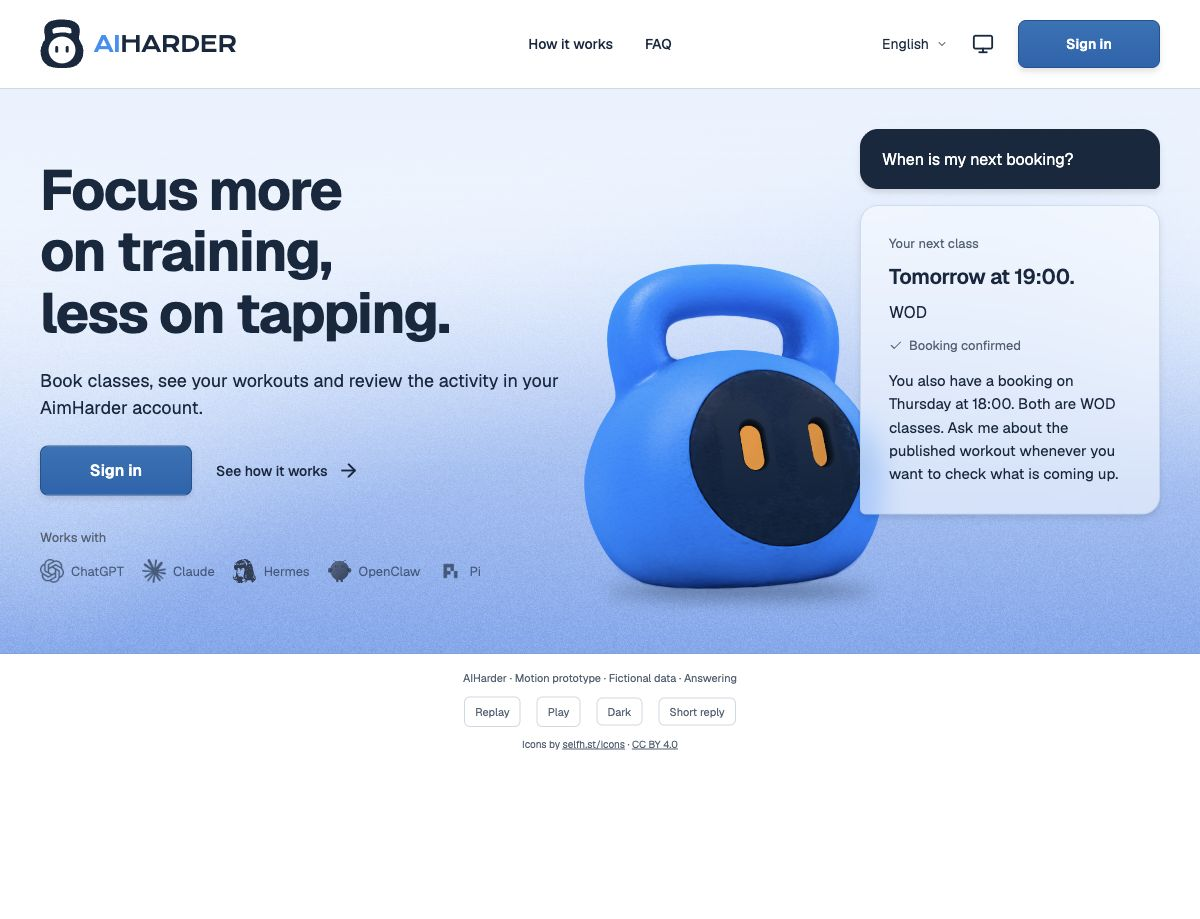
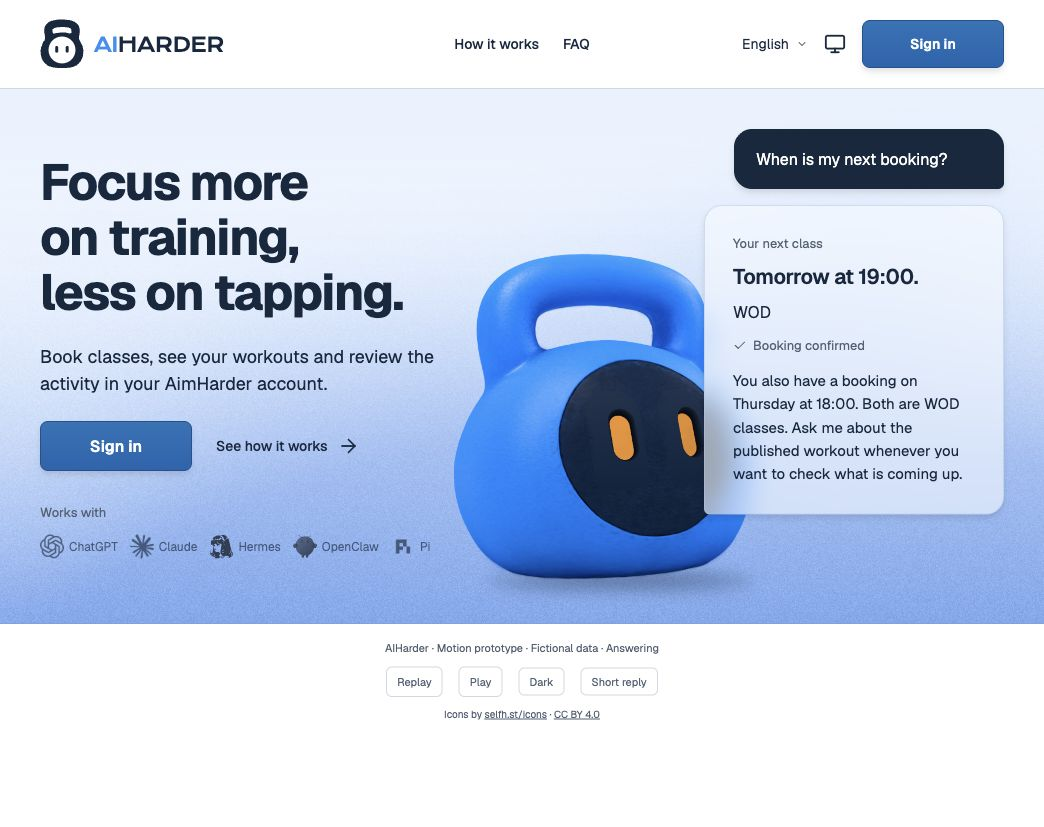
design: compact desktop hero scene and raise kettle with ground

diff --git a/design/home-study/hero-motion-prototype.html b/design/home-study/hero-motion-prototype.html
@@ -2,8 +2,8 @@
 <!-- Throwaway #95 motion prototype: one owner-directed hero, no live chat or account access. -->
 <html lang="en"><head><meta charset="utf-8"><meta name="viewport" content="width=device-width,initial-scale=1"><title>AIHarder — Kettle motion prototype</title><script>const p=new URLSearchParams(location.search);document.documentElement.dataset.theme=p.get('theme')==='dark'?'dark':'light';document.documentElement.dataset.state=['waiting','question','thinking','answer'].includes(p.get('state'))?p.get('state'):'answer';</script><style>
 @font-face{font-family:Geist;src:url('./assets/fonts/Geist.ttf');font-weight:100 900;font-display:swap}@font-face{font-family:Krona;src:url('./assets/fonts/KronaOne-Regular.ttf');font-weight:400;font-display:swap}
-:root{--bg:#fff;--surface:#f4f7fa;--ink:#14283f;--muted:#516174;--line:#cfd8e3;--bubble:#14283f;--blue:#2490f4;--cta:#1765b0;--cta-top:#2174b9;--on-cta:#fff;--edge:#12528f;--reply:#f8fbff99;--bubble-edge:#a9c3e480;--ground:#14283f4d;--contact:#14283f59;color-scheme:light}:root[data-theme=dark]{--bg:#0d1521;--surface:#142033;--ink:#edf3fa;--muted:#abbacd;--line:#34465e;--bubble:#14283f;--cta:#2490f4;--cta-top:#47a3f6;--on-cta:#0d1521;--edge:#61a9eb;--reply:#142b4599;--bubble-edge:#48688b80;--ground:#000000a6;--contact:#000000b3;color-scheme:dark}*{box-sizing:border-box}body{margin:0;background:var(--bg);color:var(--ink);font:16px/1.5 Geist,Arial,sans-serif}a{color:inherit;text-decoration:none}h1,p{margin:0}.container{width:calc(100% - 80px);max-width:1200px;margin:auto}.icon{width:22px;height:22px;display:inline-block;flex:none;background:currentColor;mask:var(--icon) center/contain no-repeat}.site-header{border-bottom:1px solid var(--line)}.header-inner{min-height:88px;display:grid;grid-template-columns:1fr 1fr 1fr;align-items:center}.brand{display:flex;gap:10px;align-items:center;font:400 21.875px/1 Krona,sans-serif;letter-spacing:-.546875px;white-space:nowrap}.brand img{width:43.75px;height:50px;object-fit:contain}.brand b{color:var(--blue);font-weight:400}.nav{display:flex;align-items:center;justify-content:center;gap:32px;font-size:14px;font-weight:500}.utilities{display:flex;align-items:center;justify-content:flex-end;gap:24px;font-size:14px}.language{display:flex;gap:7px;align-items:center}.language .icon{width:12px;height:12px}.primary{display:inline-flex;align-items:center;justify-content:center;min-height:48px;padding:12px 28px;border-radius:8px;border:1px solid var(--edge);font-weight:600;background:linear-gradient(var(--cta-top),var(--cta));color:var(--on-cta);box-shadow:rgba(0,0,0,0.1) 0px 4px 6px 0px}.header-signin{min-width:142px}.hero{padding:32px 0;display:grid;grid-template-columns:532px minmax(0,1fr);gap:72px;align-items:center}.pitch{display:flex;flex-direction:column;gap:24px;position:relative;z-index:2}h1{font-size:56px;line-height:1.1;letter-spacing:-1.5px;font-weight:700}.intro{font-size:18px;line-height:1.5;color:var(--muted);max-width:532px}.actions{display:flex;gap:24px;align-items:center}.actions .primary{min-width:152px}.text-link{display:inline-flex;align-items:center;gap:10px;font-size:14px;font-weight:500}.works{padding-top:8px}.works-label{font-size:13px;color:var(--muted);margin-bottom:12px}.apps{display:flex;gap:18px;align-items:center;opacity:.65}.app{display:flex;align-items:center;gap:7px;font-size:13px;white-space:nowrap}.app img{width:24px;height:24px;object-fit:contain}.scene{position:relative;height:500px;min-width:0}.kettle{position:absolute;left:-80px;top:96px;width:360px;height:390px;z-index:1;overflow:hidden}.kettle img{position:absolute;width:493.14px;height:493.14px;max-width:none;left:-77.06px;top:-65.5px}.ground{position:absolute;left:-48px;top:476px;width:300px;height:20px;border-radius:50%;background:var(--ground);filter:blur(8px);z-index:0;transform-origin:center}.ground::after{content:"";position:absolute;left:38px;top:5px;width:224px;height:7px;border-radius:50%;background:var(--contact);filter:blur(2px)}.bubble{position:absolute;font-size:16px;line-height:1.5;z-index:3;box-shadow:rgba(0,0,0,0.1) 0px 4px 6px 0px}.question{right:0;top:8px;width:300px;background:var(--bubble);color:#fff;border-radius:18px 18px 6px 18px;padding:18px 22px}.answer{right:0;top:var(--reply-top,84px);width:344px;background:var(--reply);backdrop-filter:blur(12px);-webkit-backdrop-filter:blur(12px);border:1px solid var(--bubble-edge);border-radius:18px 18px 18px 6px;padding:28px}.answer .eyebrow{font-size:13px;color:var(--muted);margin-bottom:10px}.answer strong{display:block;font-size:21px;line-height:1.25;font-weight:600;letter-spacing:-.35px}.answer .class-name{margin-top:10px;font-size:16px}.answer .confirmed{display:flex;gap:6px;align-items:center;color:var(--muted);font-size:13px;margin-top:12px}.answer .confirmed .icon{width:14px;height:14px}.thinking{right:0;top:var(--reply-top,84px);width:90px;height:60px;border:1px solid var(--bubble-edge);border-radius:16px;background:var(--reply);backdrop-filter:blur(12px);-webkit-backdrop-filter:blur(12px);align-items:center;justify-content:center;gap:7px;display:none}.thinking span{display:block;width:7px;height:7px;background:var(--muted);border-radius:50%}.thinking span:nth-child(2){opacity:.7}.thinking span:nth-child(3){opacity:.4}[data-state=waiting] .question,[data-state=waiting] .answer,[data-state=question] .answer,[data-state=thinking] .answer{display:none}[data-state=thinking] .thinking{display:flex}.sr-only{position:absolute;width:1px;height:1px;overflow:hidden;clip-path:inset(50%)}.review-note{font-size:11px;color:var(--muted);padding:16px;text-align:center;border-top:1px solid var(--line)}
-@media(max-width:1320px){.kettle{left:-60px;top:126px;width:300px;height:344px}.kettle img{width:435.13px;height:435.13px;left:-68px;top:-57.79px}.answer{width:300px}.ground{left:-36px;top:460px;width:266px}.ground::after{left:34px;width:198px}}
+:root{--bg:#fff;--surface:#f4f7fa;--ink:#14283f;--muted:#516174;--line:#cfd8e3;--bubble:#14283f;--blue:#2490f4;--cta:#1765b0;--cta-top:#2174b9;--on-cta:#fff;--edge:#12528f;--reply:#f8fbff99;--bubble-edge:#a9c3e480;--ground:#14283f4d;--contact:#14283f59;color-scheme:light}:root[data-theme=dark]{--bg:#0d1521;--surface:#142033;--ink:#edf3fa;--muted:#abbacd;--line:#34465e;--bubble:#14283f;--cta:#2490f4;--cta-top:#47a3f6;--on-cta:#0d1521;--edge:#61a9eb;--reply:#142b4599;--bubble-edge:#48688b80;--ground:#000000a6;--contact:#000000b3;color-scheme:dark}*{box-sizing:border-box}body{margin:0;background:var(--bg);color:var(--ink);font:16px/1.5 Geist,Arial,sans-serif}a{color:inherit;text-decoration:none}h1,p{margin:0}.container{width:calc(100% - 80px);max-width:1200px;margin:auto}.icon{width:22px;height:22px;display:inline-block;flex:none;background:currentColor;mask:var(--icon) center/contain no-repeat}.site-header{border-bottom:1px solid var(--line)}.header-inner{min-height:88px;display:grid;grid-template-columns:1fr 1fr 1fr;align-items:center}.brand{display:flex;gap:10px;align-items:center;font:400 21.875px/1 Krona,sans-serif;letter-spacing:-.546875px;white-space:nowrap}.brand img{width:43.75px;height:50px;object-fit:contain}.brand b{color:var(--blue);font-weight:400}.nav{display:flex;align-items:center;justify-content:center;gap:32px;font-size:14px;font-weight:500}.utilities{display:flex;align-items:center;justify-content:flex-end;gap:24px;font-size:14px}.language{display:flex;gap:7px;align-items:center}.language .icon{width:12px;height:12px}.primary{display:inline-flex;align-items:center;justify-content:center;min-height:48px;padding:12px 28px;border-radius:8px;border:1px solid var(--edge);font-weight:600;background:linear-gradient(var(--cta-top),var(--cta));color:var(--on-cta);box-shadow:rgba(0,0,0,0.1) 0px 4px 6px 0px}.header-signin{min-width:142px}.hero{padding:32px 0;display:grid;grid-template-columns:532px minmax(0,1fr);gap:72px;align-items:center}.pitch{display:flex;flex-direction:column;gap:24px;position:relative;z-index:2}h1{font-size:56px;line-height:1.1;letter-spacing:-1.5px;font-weight:700}.intro{font-size:18px;line-height:1.5;color:var(--muted);max-width:532px}.actions{display:flex;gap:24px;align-items:center}.actions .primary{min-width:152px}.text-link{display:inline-flex;align-items:center;gap:10px;font-size:14px;font-weight:500}.works{padding-top:8px}.works-label{font-size:13px;color:var(--muted);margin-bottom:12px}.apps{display:flex;gap:18px;align-items:center;opacity:.65}.app{display:flex;align-items:center;gap:7px;font-size:13px;white-space:nowrap}.app img{width:24px;height:24px;object-fit:contain}.scene{position:relative;height:470px;min-width:0}.kettle{position:absolute;left:-80px;top:86px;width:360px;height:390px;z-index:1;overflow:hidden}.kettle img{position:absolute;width:493.14px;height:493.14px;max-width:none;left:-77.06px;top:-65.5px}.ground{position:absolute;left:-48px;top:466px;width:300px;height:20px;border-radius:50%;background:var(--ground);filter:blur(8px);z-index:0;transform-origin:center}.ground::after{content:"";position:absolute;left:38px;top:5px;width:224px;height:7px;border-radius:50%;background:var(--contact);filter:blur(2px)}.bubble{position:absolute;font-size:16px;line-height:1.5;z-index:3;box-shadow:rgba(0,0,0,0.1) 0px 4px 6px 0px}.question{right:0;top:8px;width:300px;background:var(--bubble);color:#fff;border-radius:18px 18px 6px 18px;padding:18px 22px}.answer{right:0;top:var(--reply-top,84px);width:344px;background:var(--reply);backdrop-filter:blur(12px);-webkit-backdrop-filter:blur(12px);border:1px solid var(--bubble-edge);border-radius:18px 18px 18px 6px;padding:28px}.answer .eyebrow{font-size:13px;color:var(--muted);margin-bottom:10px}.answer strong{display:block;font-size:21px;line-height:1.25;font-weight:600;letter-spacing:-.35px}.answer .class-name{margin-top:10px;font-size:16px}.answer .confirmed{display:flex;gap:6px;align-items:center;color:var(--muted);font-size:13px;margin-top:12px}.answer .confirmed .icon{width:14px;height:14px}.thinking{right:0;top:var(--reply-top,84px);width:90px;height:60px;border:1px solid var(--bubble-edge);border-radius:16px;background:var(--reply);backdrop-filter:blur(12px);-webkit-backdrop-filter:blur(12px);align-items:center;justify-content:center;gap:7px;display:none}.thinking span{display:block;width:7px;height:7px;background:var(--muted);border-radius:50%}.thinking span:nth-child(2){opacity:.7}.thinking span:nth-child(3){opacity:.4}[data-state=waiting] .question,[data-state=waiting] .answer,[data-state=question] .answer,[data-state=thinking] .answer{display:none}[data-state=thinking] .thinking{display:flex}.sr-only{position:absolute;width:1px;height:1px;overflow:hidden;clip-path:inset(50%)}.review-note{font-size:11px;color:var(--muted);padding:16px;text-align:center;border-top:1px solid var(--line)}
+@media(max-width:1320px){.kettle{left:-60px;top:116px;width:300px;height:344px}.kettle img{width:435.13px;height:435.13px;left:-68px;top:-57.79px}.answer{width:300px}.ground{left:-36px;top:450px;width:266px}.ground::after{left:34px;width:198px}}
 @media(max-width:1150px){.hero{grid-template-columns:46% 1fr;gap:40px}h1{font-size:50px}.brand{font-size:20px}.utilities{gap:16px}.nav{gap:24px}.question{width:270px}.answer{width:300px}.kettle{left:-70px}.apps{gap:12px}.app{font-size:12px;gap:5px}}
-@media(max-width:850px){.container{width:calc(100% - 40px)}.header-inner{grid-template-columns:1fr auto;min-height:80px}.nav{display:none}.utilities{gap:16px}.language{display:none}.hero{display:block;padding-top:28px}.pitch{max-width:532px}.scene{height:520px;margin:32px auto 0;max-width:596px}.kettle{left:0}.question{right:0}.answer{right:0}.apps{flex-wrap:wrap}h1{font-size:44px}.header-signin{min-width:100px;padding:12px 18px}.brand{font-size:17px}.brand img{width:35px;height:40px}}
+@media(max-width:850px){.container{width:calc(100% - 40px)}.header-inner{grid-template-columns:1fr auto;min-height:80px}.nav{display:none}.utilities{gap:16px}.language{display:none}.hero{display:block;padding-top:28px}.pitch{max-width:532px}.scene{height:520px;margin:32px auto 0;max-width:596px}.kettle{left:0;top:126px}.ground{top:460px}.question{right:0}.answer{right:0}.apps{flex-wrap:wrap}h1{font-size:44px}.header-signin{min-width:100px;padding:12px 18px}.brand{font-size:17px}.brand img{width:35px;height:40px}}
[1 lines of base64/hex data omitted]

diff --git a/design/home-study/hero-graphic-still.html b/design/home-study/hero-graphic-still.html
@@ -2,8 +2,8 @@
 <!-- Static composition study for #95. No animation, real chat, account access or production behavior. -->
 <html lang="en"><head><meta charset="utf-8"><meta name="viewport" content="width=device-width,initial-scale=1"><title>AIHarder — Kettle hero composition</title><script>const p=new URLSearchParams(location.search);document.documentElement.dataset.theme=p.get('theme')==='dark'?'dark':'light';document.documentElement.dataset.state=['waiting','question','thinking','answer'].includes(p.get('state'))?p.get('state'):'answer';</script><style>
 @font-face{font-family:Geist;src:url('./assets/fonts/Geist.ttf');font-weight:100 900;font-display:swap}@font-face{font-family:Krona;src:url('./assets/fonts/KronaOne-Regular.ttf');font-weight:400;font-display:swap}
-:root{--bg:#fff;--surface:#f4f7fa;--ink:#14283f;--muted:#516174;--line:#cfd8e3;--bubble:#14283f;--blue:#2490f4;--cta:#1765b0;--cta-top:#2174b9;--on-cta:#fff;--edge:#12528f;--reply:#f8fbff99;--bubble-edge:#a9c3e480;--ground:#14283f4d;--contact:#14283f59;color-scheme:light}:root[data-theme=dark]{--bg:#0d1521;--surface:#142033;--ink:#edf3fa;--muted:#abbacd;--line:#34465e;--bubble:#14283f;--cta:#2490f4;--cta-top:#47a3f6;--on-cta:#0d1521;--edge:#61a9eb;--reply:#142b4599;--bubble-edge:#48688b80;--ground:#000000a6;--contact:#000000b3;color-scheme:dark}*{box-sizing:border-box}body{margin:0;background:var(--bg);color:var(--ink);font:16px/1.5 Geist,Arial,sans-serif}a{color:inherit;text-decoration:none}h1,p{margin:0}.container{width:calc(100% - 80px);max-width:1200px;margin:auto}.icon{width:22px;height:22px;display:inline-block;flex:none;background:currentColor;mask:var(--icon) center/contain no-repeat}.site-header{border-bottom:1px solid var(--line)}.header-inner{min-height:88px;display:grid;grid-template-columns:1fr 1fr 1fr;align-items:center}.brand{display:flex;gap:10px;align-items:center;font:400 21.875px/1 Krona,sans-serif;letter-spacing:-.546875px;white-space:nowrap}.brand img{width:43.75px;height:50px;object-fit:contain}.brand b{color:var(--blue);font-weight:400}.nav{display:flex;align-items:center;justify-content:center;gap:32px;font-size:14px;font-weight:500}.utilities{display:flex;align-items:center;justify-content:flex-end;gap:24px;font-size:14px}.language{display:flex;gap:7px;align-items:center}.language .icon{width:12px;height:12px}.primary{display:inline-flex;align-items:center;justify-content:center;min-height:48px;padding:12px 28px;border-radius:8px;border:1px solid var(--edge);font-weight:600;background:linear-gradient(var(--cta-top),var(--cta));color:var(--on-cta);box-shadow:rgba(0,0,0,0.1) 0px 4px 6px 0px}.header-signin{min-width:142px}.hero{padding:32px 0;display:grid;grid-template-columns:532px minmax(0,1fr);gap:72px;align-items:center}.pitch{display:flex;flex-direction:column;gap:24px;position:relative;z-index:2}h1{font-size:56px;line-height:1.1;letter-spacing:-1.5px;font-weight:700}.intro{font-size:18px;line-height:1.5;color:var(--muted);max-width:532px}.actions{display:flex;gap:24px;align-items:center}.actions .primary{min-width:152px}.text-link{display:inline-flex;align-items:center;gap:10px;font-size:14px;font-weight:500}.works{padding-top:8px}.works-label{font-size:13px;color:var(--muted);margin-bottom:12px}.apps{display:flex;gap:18px;align-items:center;opacity:.65}.app{display:flex;align-items:center;gap:7px;font-size:13px;white-space:nowrap}.app img{width:24px;height:24px;object-fit:contain}.scene{position:relative;height:500px;min-width:0}.kettle{position:absolute;left:-80px;top:96px;width:360px;height:390px;z-index:1;overflow:hidden}.kettle img{position:absolute;width:493.14px;height:493.14px;max-width:none;left:-77.06px;top:-65.5px}.ground{position:absolute;left:-48px;top:476px;width:300px;height:20px;border-radius:50%;background:var(--ground);filter:blur(8px);z-index:0;transform-origin:center}.ground::after{content:"";position:absolute;left:38px;top:5px;width:224px;height:7px;border-radius:50%;background:var(--contact);filter:blur(2px)}.bubble{position:absolute;font-size:16px;line-height:1.5;z-index:3;box-shadow:rgba(0,0,0,0.1) 0px 4px 6px 0px}.question{right:0;top:8px;width:300px;background:var(--bubble);color:#fff;border-radius:18px 18px 6px 18px;padding:18px 22px}.answer{right:0;top:var(--reply-top,84px);width:344px;background:var(--reply);backdrop-filter:blur(12px);-webkit-backdrop-filter:blur(12px);border:1px solid var(--bubble-edge);border-radius:18px 18px 18px 6px;padding:28px}.answer .eyebrow{font-size:13px;color:var(--muted);margin-bottom:10px}.answer strong{display:block;font-size:21px;line-height:1.25;font-weight:600;letter-spacing:-.35px}.answer .class-name{margin-top:10px;font-size:16px}.answer .confirmed{display:flex;gap:6px;align-items:center;color:var(--muted);font-size:13px;margin-top:12px}.answer .confirmed .icon{width:14px;height:14px}.thinking{right:0;top:var(--reply-top,84px);width:90px;height:60px;border:1px solid var(--bubble-edge);border-radius:16px;background:var(--reply);backdrop-filter:blur(12px);-webkit-backdrop-filter:blur(12px);align-items:center;justify-content:center;gap:7px;display:none}.thinking span{display:block;width:7px;height:7px;background:var(--muted);border-radius:50%}.thinking span:nth-child(2){opacity:.7}.thinking span:nth-child(3){opacity:.4}[data-state=waiting] .question,[data-state=waiting] .answer,[data-state=question] .answer,[data-state=thinking] .answer{display:none}[data-state=thinking] .thinking{display:flex}.sr-only{position:absolute;width:1px;height:1px;overflow:hidden;clip-path:inset(50%)}.review-note{font-size:11px;color:var(--muted);padding:16px;text-align:center;border-top:1px solid var(--line)}
-@media(max-width:1320px){.kettle{left:-60px;top:126px;width:300px;height:344px}.kettle img{width:435.13px;height:435.13px;left:-68px;top:-57.79px}.answer{width:300px}.ground{left:-36px;top:460px;width:266px}.ground::after{left:34px;width:198px}}
+:root{--bg:#fff;--surface:#f4f7fa;--ink:#14283f;--muted:#516174;--line:#cfd8e3;--bubble:#14283f;--blue:#2490f4;--cta:#1765b0;--cta-top:#2174b9;--on-cta:#fff;--edge:#12528f;--reply:#f8fbff99;--bubble-edge:#a9c3e480;--ground:#14283f4d;--contact:#14283f59;color-scheme:light}:root[data-theme=dark]{--bg:#0d1521;--surface:#142033;--ink:#edf3fa;--muted:#abbacd;--line:#34465e;--bubble:#14283f;--cta:#2490f4;--cta-top:#47a3f6;--on-cta:#0d1521;--edge:#61a9eb;--reply:#142b4599;--bubble-edge:#48688b80;--ground:#000000a6;--contact:#000000b3;color-scheme:dark}*{box-sizing:border-box}body{margin:0;background:var(--bg);color:var(--ink);font:16px/1.5 Geist,Arial,sans-serif}a{color:inherit;text-decoration:none}h1,p{margin:0}.container{width:calc(100% - 80px);max-width:1200px;margin:auto}.icon{width:22px;height:22px;display:inline-block;flex:none;background:currentColor;mask:var(--icon) center/contain no-repeat}.site-header{border-bottom:1px solid var(--line)}.header-inner{min-height:88px;display:grid;grid-template-columns:1fr 1fr 1fr;align-items:center}.brand{display:flex;gap:10px;align-items:center;font:400 21.875px/1 Krona,sans-serif;letter-spacing:-.546875px;white-space:nowrap}.brand img{width:43.75px;height:50px;object-fit:contain}.brand b{color:var(--blue);font-weight:400}.nav{display:flex;align-items:center;justify-content:center;gap:32px;font-size:14px;font-weight:500}.utilities{display:flex;align-items:center;justify-content:flex-end;gap:24px;font-size:14px}.language{display:flex;gap:7px;align-items:center}.language .icon{width:12px;height:12px}.primary{display:inline-flex;align-items:center;justify-content:center;min-height:48px;padding:12px 28px;border-radius:8px;border:1px solid var(--edge);font-weight:600;background:linear-gradient(var(--cta-top),var(--cta));color:var(--on-cta);box-shadow:rgba(0,0,0,0.1) 0px 4px 6px 0px}.header-signin{min-width:142px}.hero{padding:32px 0;display:grid;grid-template-columns:532px minmax(0,1fr);gap:72px;align-items:center}.pitch{display:flex;flex-direction:column;gap:24px;position:relative;z-index:2}h1{font-size:56px;line-height:1.1;letter-spacing:-1.5px;font-weight:700}.intro{font-size:18px;line-height:1.5;color:var(--muted);max-width:532px}.actions{display:flex;gap:24px;align-items:center}.actions .primary{min-width:152px}.text-link{display:inline-flex;align-items:center;gap:10px;font-size:14px;font-weight:500}.works{padding-top:8px}.works-label{font-size:13px;color:var(--muted);margin-bottom:12px}.apps{display:flex;gap:18px;align-items:center;opacity:.65}.app{display:flex;align-items:center;gap:7px;font-size:13px;white-space:nowrap}.app img{width:24px;height:24px;object-fit:contain}.scene{position:relative;height:470px;min-width:0}.kettle{position:absolute;left:-80px;top:86px;width:360px;height:390px;z-index:1;overflow:hidden}.kettle img{position:absolute;width:493.14px;height:493.14px;max-width:none;left:-77.06px;top:-65.5px}.ground{position:absolute;left:-48px;top:466px;width:300px;height:20px;border-radius:50%;background:var(--ground);filter:blur(8px);z-index:0;transform-origin:center}.ground::after{content:"";position:absolute;left:38px;top:5px;width:224px;height:7px;border-radius:50%;background:var(--contact);filter:blur(2px)}.bubble{position:absolute;font-size:16px;line-height:1.5;z-index:3;box-shadow:rgba(0,0,0,0.1) 0px 4px 6px 0px}.question{right:0;top:8px;width:300px;background:var(--bubble);color:#fff;border-radius:18px 18px 6px 18px;padding:18px 22px}.answer{right:0;top:var(--reply-top,84px);width:344px;background:var(--reply);backdrop-filter:blur(12px);-webkit-backdrop-filter:blur(12px);border:1px solid var(--bubble-edge);border-radius:18px 18px 18px 6px;padding:28px}.answer .eyebrow{font-size:13px;color:var(--muted);margin-bottom:10px}.answer strong{display:block;font-size:21px;line-height:1.25;font-weight:600;letter-spacing:-.35px}.answer .class-name{margin-top:10px;font-size:16px}.answer .confirmed{display:flex;gap:6px;align-items:center;color:var(--muted);font-size:13px;margin-top:12px}.answer .confirmed .icon{width:14px;height:14px}.thinking{right:0;top:var(--reply-top,84px);width:90px;height:60px;border:1px solid var(--bubble-edge);border-radius:16px;background:var(--reply);backdrop-filter:blur(12px);-webkit-backdrop-filter:blur(12px);align-items:center;justify-content:center;gap:7px;display:none}.thinking span{display:block;width:7px;height:7px;background:var(--muted);border-radius:50%}.thinking span:nth-child(2){opacity:.7}.thinking span:nth-child(3){opacity:.4}[data-state=waiting] .question,[data-state=waiting] .answer,[data-state=question] .answer,[data-state=thinking] .answer{display:none}[data-state=thinking] .thinking{display:flex}.sr-only{position:absolute;width:1px;height:1px;overflow:hidden;clip-path:inset(50%)}.review-note{font-size:11px;color:var(--muted);padding:16px;text-align:center;border-top:1px solid var(--line)}
+@media(max-width:1320px){.kettle{left:-60px;top:116px;width:300px;height:344px}.kettle img{width:435.13px;height:435.13px;left:-68px;top:-57.79px}.answer{width:300px}.ground{left:-36px;top:450px;width:266px}.ground::after{left:34px;width:198px}}
 @media(max-width:1150px){.hero{grid-template-columns:46% 1fr;gap:40px}h1{font-size:50px}.brand{font-size:20px}.utilities{gap:16px}.nav{gap:24px}.question{width:270px}.answer{width:300px}.kettle{left:-70px}.apps{gap:12px}.app{font-size:12px;gap:5px}}
-@media(max-width:850px){.container{width:calc(100% - 40px)}.header-inner{grid-template-columns:1fr auto;min-height:80px}.nav{display:none}.utilities{gap:16px}.language{display:none}.hero{display:block;padding-top:28px}.pitch{max-width:532px}.scene{height:520px;margin:32px auto 0;max-width:596px}.kettle{left:0}.question{right:0}.answer{right:0}.apps{flex-wrap:wrap}h1{font-size:44px}.header-signin{min-width:100px;padding:12px 18px}.brand{font-size:17px}.brand img{width:35px;height:40px}}
+@media(max-width:850px){.container{width:calc(100% - 40px)}.header-inner{grid-template-columns:1fr auto;min-height:80px}.nav{display:none}.utilities{gap:16px}.language{display:none}.hero{display:block;padding-top:28px}.pitch{max-width:532px}.scene{height:520px;margin:32px auto 0;max-width:596px}.kettle{left:0;top:126px}.ground{top:460px}.question{right:0}.answer{right:0}.apps{flex-wrap:wrap}h1{font-size:44px}.header-signin{min-width:100px;padding:12px 18px}.brand{font-size:17px}.brand img{width:35px;height:40px}}
[1 lines of base64/hex data omitted]

diff --git a/design/home-study/hero-surface-study.md b/design/home-study/hero-surface-study.md
@@ -67,3 +67,9 @@ Verified Light/Dark at 1200px: the initial bubble computes to navy/white and hea
 The current fictional example uses **WOD** rather than CrossFit, including its optional longer answer and complete accessible label. Hermes and OpenClaw now use the unmodified SVG Light/Dark artwork from the owner's selfh.st Dashboard Icons links, superseding the trial portrait crop and the earlier OpenClaw derivative. The icons share the row's 24px size and 65% opacity with no bespoke crop/filter. The source variants are mapped to contrasting UI themes by inspecting their black/white fills; see [asset notices](assets/README.md) for URLs, revision, license and the mapping. Required selfh.st/CC BY 4.0 attribution is in the review footer, outside the product hero.
 
 Browser verification in Light/Dark at 1200px confirmed both SVGs loaded, correctly contrasting variants, 24px widths, no filters/circular crop, WOD in the short/long/accessible example, and no horizontal overflow or observed console warnings/errors. Current long-copy length is 201 characters. The entry-script revision changes with the copy to avoid stale cached text. Source SVGs, source hashes, complete collection license, captures and metadata are retained. The original photo and other assets stay available to frozen variants. No native pen, API, architecture/ADR or npm-dependency changes are involved.
+
+## Desktop scene height and planted position — 2026-11-01
+
+The owner's annotation requests the conversation scene height 500 → 470px, with the kettle and ground shadow each moved up 10px. Both HTML sources apply this to the desktop layout, including the annotated 1044px viewport and wider desktop widths: base offsets 96/476 → 86/466px; at the existing 1320px breakpoint, 126/460 → 116/450px. Only vertical positions change; dimensions, lateral alignment, 3D motion and shadow synchronization are preserved. At the existing mobile breakpoint (850px and below), the former 520px scene and 126/460px offsets remain explicitly restored. The annotation is not treated as a viewport-specific exception, and no temporary preview attributes were copied. Native pen, other page variants, API behavior and architecture/ADRs are unchanged.
+
+Verified Light at the annotated 1044px width and Dark at 1440px: both scenes compute to 470px with the expected offsets and no horizontal overflow. At 850px, computed values remain 520px / 126px / 460px; this is a preservation check, not a new mobile design acceptance. Current captures/checks are refreshed. No broader runtime tests are needed for this CSS-only adjustment.
